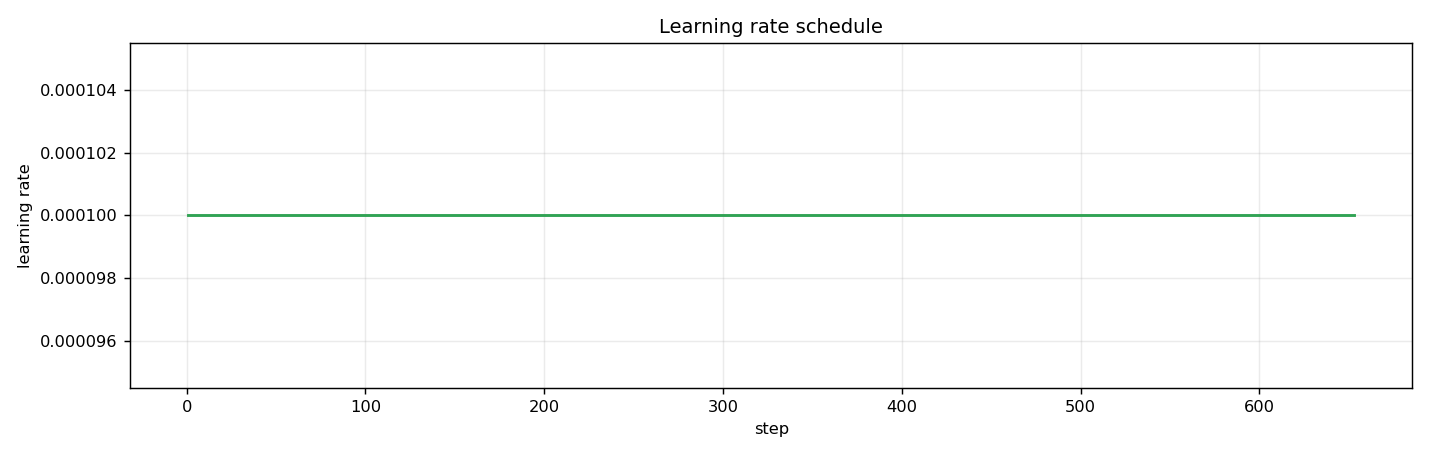
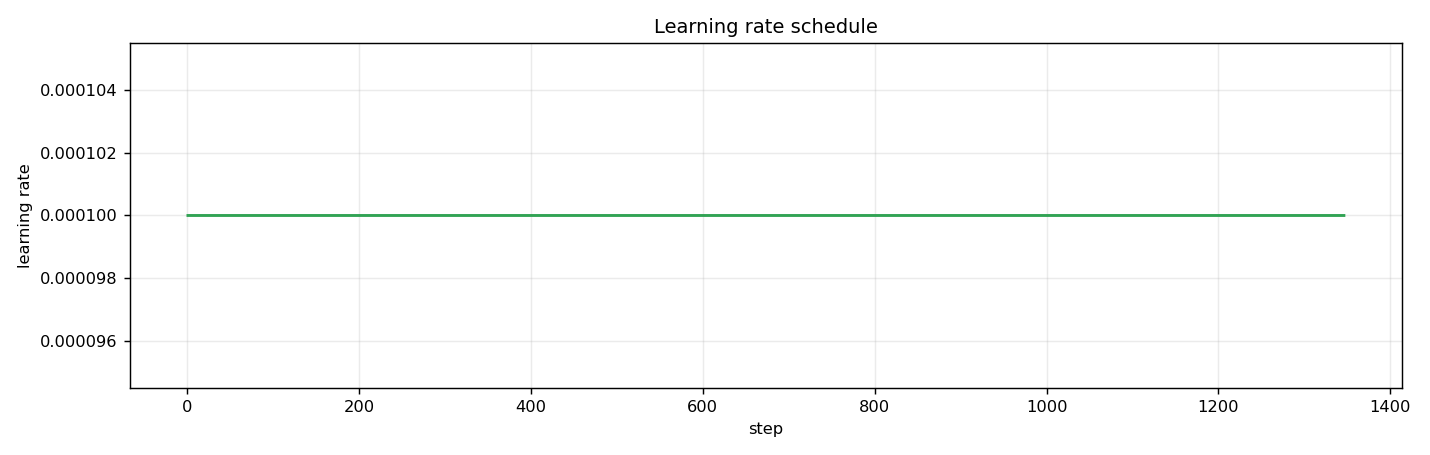
Update training analysis: A100 post-resume snapshot

diff --git a/TRAINING_ANALYSIS/ANALYSIS.md b/TRAINING_ANALYSIS/ANALYSIS.md
@@ -1,6 +1,6 @@
 # Training analysis — `akbar_arabic_rock_lora`
 
-Snapshot taken **2026-09-19 09:23 UTC** (12:23 Bahrain) at **step ~654 / 3000 (~22%)**.
+Snapshot taken **2026-09-19 13:02 UTC** (16:02 Bahrain) at **step ~1349 / 3000 (~45%)**.
 Charts are regenerated from the live `loss_log.db` and `gpu_usage.csv` with:
 
 ```bash
@@ -11,21 +11,28 @@ python TRAINING_ANALYSIS/generate_plots.py
 > has to be judged from the generated samples as well — loss alone can't tell you
 > the LoRA learned the maqam.
 
+> **Cross-VM note.** This run began on an L4 (steps 1–250, whole-song) and was
+> resumed on an A100-SXM4-80GB at step 250 (now to ~1349). The loss history is
+> continuous across the switch; the throughput/GPU panels are A100-only
+> (`gpu_usage.csv` started fresh on this VM). Steps 251–295 were re-processed on
+> the A100 after resume (they existed locally but never reached a saved
+> checkpoint on the L4).
+
 ## Run at a glance
 
 | | |
 |---|---|
-| Config | `config/akbar_arabic_rock_lora.yml` (rank 32 LoRA, EMA 0.999, `cot: off`, lr 1e-4) |
-| Model | YuE2 3B int8 `convrot8`, flowmatch |
+| Config | `config/akbar_arabic_rock_lora.yml` (rank 32 LoRA, EMA 0.999, `cot: off`, `train_window_frames: 0`, lr 1e-4) |
+| Model | YuE2 3B int8 `convrot8`, flowmatch, batch 1 |
 | Dataset | 267 clips, 267 captions, one combined LoRA across four maqams |
-| GPU | Colab L4 24 GB |
-| Steps done | **654 / 3000 (21.8%)** |
-| Elapsed (logged span) | 1.63 h |
-| Median step time | **7.8 s/step** |
-| Effective rate incl. samples | ~400 steps/h (0.111 steps/s) |
-| ETA | **~5.9–6.2 h from snapshot → ~15:15–15:35 UTC / ~18:15–18:35 Bahrain** |
-| Checkpoints | `..._000000250.safetensors`, `..._000000500.safetensors` (every 250, keep 12) |
-| Samples | 12 mp3s (4 prompts at steps 0, 250, 500) |
+| GPU | Colab **A100-SXM4-80GB** (steps 1–250 were L4 24 GB) |
+| Steps done | **~1349 / 3000 (45.0%)** |
+| Median step time | **3.10 s/step** on A100 (p10/p90 = 2.59 / 3.72); L4 was 13.4 s/step |
+| Sample tax | ~226 s (~3.8 min) per sample event, every 250 steps (L4 was ~388 s) |
+| Effective rate incl. samples | ~0.25 steps/s (~4.0 s/step amortised) |
+| ETA | **~1.8–1.9 h from snapshot → ~14:50 UTC / ~17:50 Bahrain** |
+| Checkpoints | `..._000000250/500/750/1000/1250.safetensors` — all on disk **and in GCS** (every 250, keep 12) |
+| Samples | 24 mp3s (4 prompts at steps 0, 250, 500, 750, 1000, 1250) |
 
 ## Charts
 
@@ -33,70 +40,89 @@ python TRAINING_ANALYSIS/generate_plots.py
 - [`02_loss_main.png`](02_loss_main.png) — primary `loss/loss` with linear trend
 - [`03_learning_rate.png`](03_learning_rate.png) — LR schedule (constant 1e-4)
 - [`04_throughput.png`](04_throughput.png) — seconds/step and progress vs wall-clock
-- [`05_gpu_usage.png`](05_gpu_usage.png) — GPU util / memory / temp / power
+- [`05_gpu_usage.png`](05_gpu_usage.png) — A100 util / memory / temp / power
 
 ## Loss trend (per-100-step means)
 
 | steps | `loss/loss` | `loss/ar_ce` | `loss/ar_kl` | `additional_model_loss` |
 |---|---|---|---|---|
-| 1–100 | 6.302 | 5.227 | 0.562 | 5.339 |
-| 101–200 | 5.925 | 4.817 | 0.885 | 4.994 |
-| 201–300 | 5.822 | 4.694 | 0.987 | 4.891 |
-| 301–400 | 5.758 | 4.623 | 1.050 | 4.833 |
-| 401–500 | 5.727 | 4.601 | 1.057 | 4.812 |
-| 501–600 | 5.677 | 4.537 | 1.088 | 4.755 |
-| 601–654 | 5.671 | 4.521 | 1.099 | 4.741 |
+| 1–100 | 6.287 | 5.227 | 0.579 | 5.343 |
+| 101–200 | 5.904 | 4.805 | 0.891 | 4.983 |
+| 201–300 | 6.072 | 5.000 | 0.723 | 5.144 |
+| 301–400 | 5.953 | 4.853 | 0.857 | 5.024 |
+| 401–500 | 5.818 | 4.706 | 0.986 | 4.903 |
+| 501–600 | 5.751 | 4.627 | 1.047 | 4.837 |
+| 601–700 | 5.726 | 4.604 | 1.050 | 4.814 |
+| 701–800 | 5.699 | 4.563 | 1.090 | 4.781 |
+| 801–900 | 5.661 | 4.512 | 1.111 | 4.734 |
+| 901–1000 | 5.644 | 4.519 | 1.122 | 4.744 |
+| 1001–1100 | 5.614 | 4.473 | 1.157 | 4.704 |
+| 1101–1200 | 5.574 | 4.442 | 1.180 | 4.678 |
+| 1201–1300 | 5.576 | 4.443 | 1.160 | 4.675 |
+| 1301–1400 | 5.517 | 4.369 | 1.200 | 4.609 |
 
-Note the confirmed metric keys: `additional_model_loss`, `learning_rate`,
-`loss/ar_ce`, `loss/ar_kl`, `loss/loss`. There is **no** `nar_flow` key (see
-`DECISIONS.md`).
+Confirmed metric keys: `additional_model_loss`, `learning_rate`, `loss/ar_ce`,
+`loss/ar_kl`, `loss/loss`. There is **no** `nar_flow` key (see `DECISIONS.md`).
+
+Headline first-50 vs last-50 (from `generate_plots.py`): `loss/loss` 6.49 → 5.52
+(**−0.97**), `loss/ar_ce` 5.45 → 4.38 (−1.08), `loss/ar_kl` 0.37 → 1.20 (+0.83),
+`additional_model_loss` 5.53 → 4.62 (−0.91).
 
 ## Observations
 
-1. **Classic shape, healthy descent.** `loss/loss` falls steeply for the first
-   ~100 steps (7.5 → ~6.0), then settles into a slow, steady decline. The
-   fitted trend over the smoothed curve is about **−6.2e-4 per step**. Raw loss
-   swings between ~5.0 and ~6.2 step-to-step, so only the smoothed line is
-   meaningful — this is normal for batch size 1.
+1. **Healthy, monotone descent over the whole run.** `loss/loss` falls steeply
+   for the first ~100 steps, then declines slowly and steadily all the way to
+   ~5.5. Raw loss swings ~5.0–6.2 step-to-step, so only the smoothed line is
+   meaningful — normal at batch size 1.
 2. **`loss/ar_ce` is the whole story.** It dominates `loss/loss` and tracks it
-   almost one-to-one (5.23 → 4.52 over the run). That is the autoregressive
-   cross-entropy doing the learning.
-3. **`loss/ar_kl` rose from ~0 to ~1.1 and has now plateaued.** Early steps sit
-   at ~0, then it climbs for ~200 steps and flattens around 1.05–1.10. This is
-   the KL regularizer (weight 0.2) measuring how far the adapted AR distribution
-   has drifted from the base — a *rise is expected* as the adapter starts to
-   move, and the **plateau is the reassuring part**: it is bounded, not
-   diverging. If it starts climbing again later, that would be the thing to
-   investigate.
-4. **Diminishing returns are showing.** `loss/loss` improvement per 100 steps
-   has shrunk from −0.38 (100→200) to roughly −0.005 (600→654). At a constant
-   LR of 1e-4 this is the expected approach to a plateau on a small, very
-   repetitive dataset. It doesn't mean the run is broken — but it does mean the
-   remaining 78% of steps are unlikely to move the training loss much, and
-   sample quality is the better signal from here.
-5. **Throughput is good but samples are a real tax.** Median step time is
-   **7.8 s/step**, but each sample event (every 250 steps) pauses training for
-   **~388 s (~6.5 min)** — nearly 20% of the wall-clock cost of each 250-step
-   interval. That's why the headline ETA is ~6 h rather than the ~5 h the raw
-   step rate suggests.
-6. **GPU is healthy and has headroom.** While training (excluding the caching
-   phase) the L4 runs ~97% util, ~12.4 GB mean / 16.0 GB peak of 23 GB, ~71 W,
-   and 75 °C mean / **78 °C peak**. Memory is not the constraint; there is room,
-   but batch size is best left at 1 for this dataset.
-7. **Everything is being persisted.** Checkpoints at 250 and 500 are on disk and
-   in GCS; samples and the metrics db are mirrored on the ~15-min backup cadence.
+   almost one-to-one (5.23 → 4.37). This is the autoregressive cross-entropy —
+   the AR expert doing the composition/arrangement learning that
+   `train_window_frames: 0` was set to enable.
+3. **`loss/ar_kl` rose then plateaued.** It starts near 0, climbs for ~300 steps,
+   and has sat in the 1.16–1.20 band from step ~900 through 1400. The **plateau
+   is the reassuring part**: the adapted AR distribution is drifting from the
+   base but is bounded, not diverging. A renewed climb would be the early warning.
+4. **Diminishing returns are showing.** Per-100-mean improvement has shrunk from
+   −0.38 (100→200) to roughly −0.05 (1200→1300). At constant LR 1e-4 this is the
+   expected approach to a plateau on a small, highly repetitive dataset. It does
+   not mean the run is broken — it means sample quality is the better signal
+   from here, not the loss.
+5. **The L4→A100 resume shows as a small, benign bump.** The 201–300 mean
+   (6.072) sits above 101–200 (5.904) and 301–400 (5.953). This window straddles
+   the step-250 switch (L4 → A100, re-processing 250–295 after restore); the
+   decline resumes cleanly afterward. Not a real regression.
+6. **A100 throughput is excellent and now well-measured.** Over 1090 post-resume
+   steps (all clip lengths), **median 3.10 s/step**, p10/p90 2.59/3.72. That is
+   **~4.3× the L4's 13.4 s/step** — above the 2–2.6× estimate in
+   `docs/GPU_L4_VS_A100.md`, which was derived from peak-spec ratios rather than a
+   measured A100 run. This resolves the earlier "does it hold on the longest
+   clips?" caution: it does.
+7. **The sample tax is real but smaller here.** Each sample event pauses training
+   ~226 s (~3.8 min) — about 42% of the L4's ~388 s — because generation is faster
+   too. Still, over the 250-step interval it adds ~0.9 s/step amortised, which is
+   why the headline ETA (~1.9 h) is longer than the raw 3.1 s/step implies
+   (~1.4 h).
+8. **GPU is healthy with large headroom.** While training: ~100% util, **peak
+   15.25 GB of 80 GB**, ~334 W mean / 424 W max against a 400 W cap, 45–67 °C.
+   Memory was never the constraint and there is now ~65 GB free — but batch size
+   is deliberately left at 1 (`DECISIONS.md`: one variable at a time).
+9. **Everything is persisted.** Checkpoints 250–1250 are on disk and in GCS; the
+   metrics db, samples, and logs are mirrored on the ~15-min backup cadence.
 
 ## Things to watch / decisions to make later
 
-- **Judge the samples, not the loss.** The step-250/500 audios are the only
-  quality signal for a style/timbre adapter. If they already sound like the
-  target and loss has plateaued, killing the run early and using the current
-  checkpoint is a legitimate (and cheaper) call.
+- **Judge the samples, not the loss.** The 24 generated audios (steps 0/250/…/
+  1250) are the quality signal; loss has largely plateaued. The step-0 samples
+  are a useful base-model reference to A/B against the later ones.
 - **Overfitting.** With 267 highly similar captions and no validation split,
-  watch for samples that copy incidental artifacts of specific clips rather
-  than generalizing the shared style — this is the main reason rank was kept
-  at 32 (`DECISIONS.md`).
-- **`ar_kl`** — treat a renewed upward trend as an early warning, not a spike.
+  watch for samples that copy incidental artifacts of specific clips rather than
+  generalizing the shared style — the reason rank was kept at 32
+  (`DECISIONS.md`).
+- **`ar_kl`** — treat a renewed upward trend past ~1.2 as an early warning.
+- **Structure vs timbre.** The whole point of `train_window_frames: 0` is that
+  the AR loss now spans entire songs, so `ar_ce`'s long descent is the number to
+  correlate with whether generated songs hold together arrangementally — best
+  judged by ear across the 500→1250 samples.
 - The ETA assumes the current sustained rate; a Colab disconnect would invalidate
   it, but auto-resume of this unchanged, approved run is permitted
   (`AGENTS.md`/`DECISIONS.md`).
